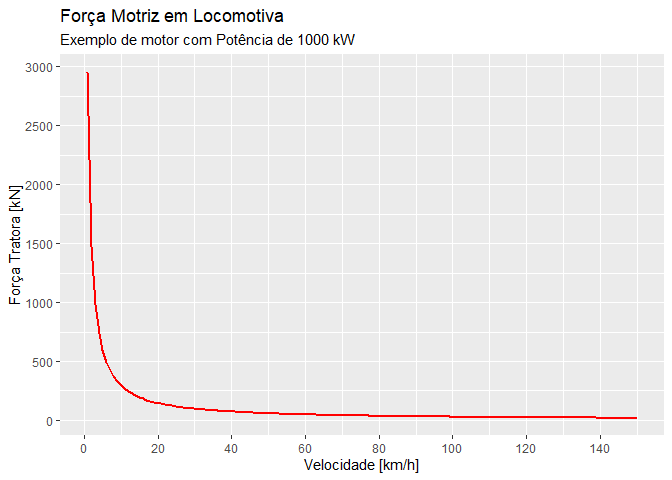
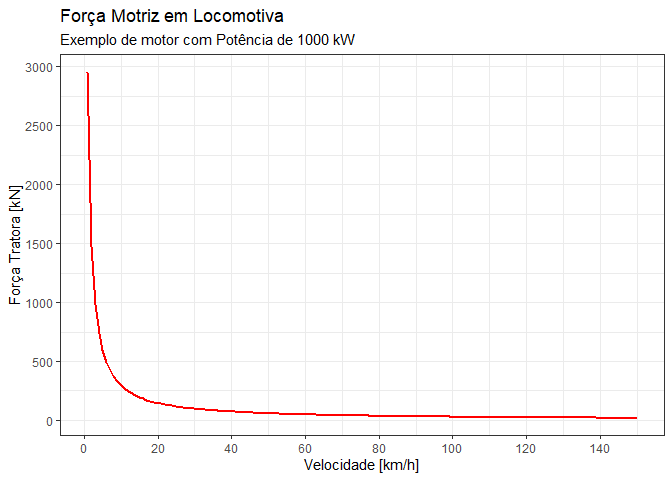
update image background

diff --git a/2025/README.md b/2025/README.md
@@ -115,7 +115,8 @@ df |> ggplot(aes(x=v, y=Ft)) +
   xlab("Velocidade [km/h]") +
   ylab("Força Tratora [kN]") +
   labs(title = "Força Motriz em Locomotiva",
-       subtitle = paste("Exemplo de motor com Potência de",P,"kW"))
+       subtitle = paste("Exemplo de motor com Potência de",P,"kW")) +
+  theme_bw()
 ```
 
 ![](README_files/figure-commonmark/unnamed-chunk-2-1.png)
@@ -171,7 +172,8 @@ df |> ggplot(aes(x=v, y=Ft)) +
   xlab("Velocidade [km/h]") +
   ylab("Força Tratora [kN]") +
   labs(title = "Força Motriz em Locomotiva",
-       subtitle = paste("Exemplo de motor com Potência de",P,"kW"))
+       subtitle = paste("Exemplo de motor com Potência de",P,"kW")) +
+  theme_bw()
 ```
 
 ![](README_files/figure-commonmark/unnamed-chunk-3-1.png)
